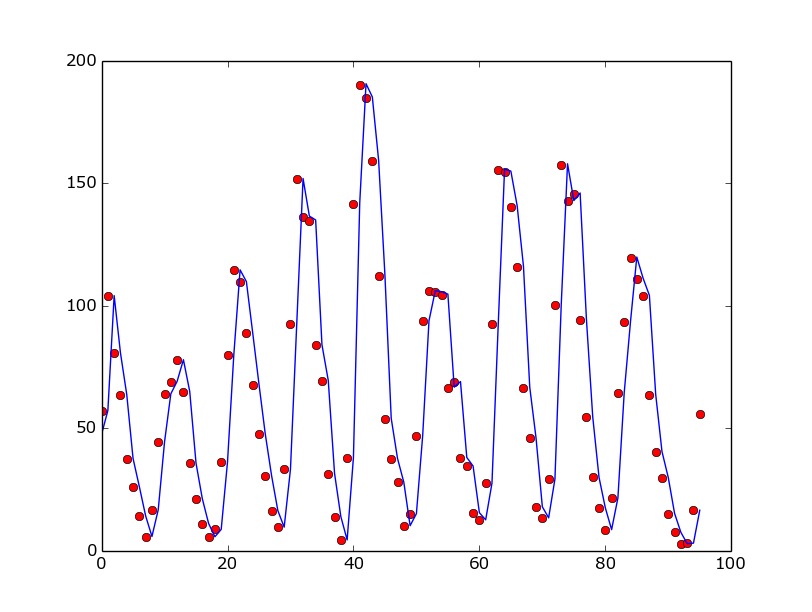
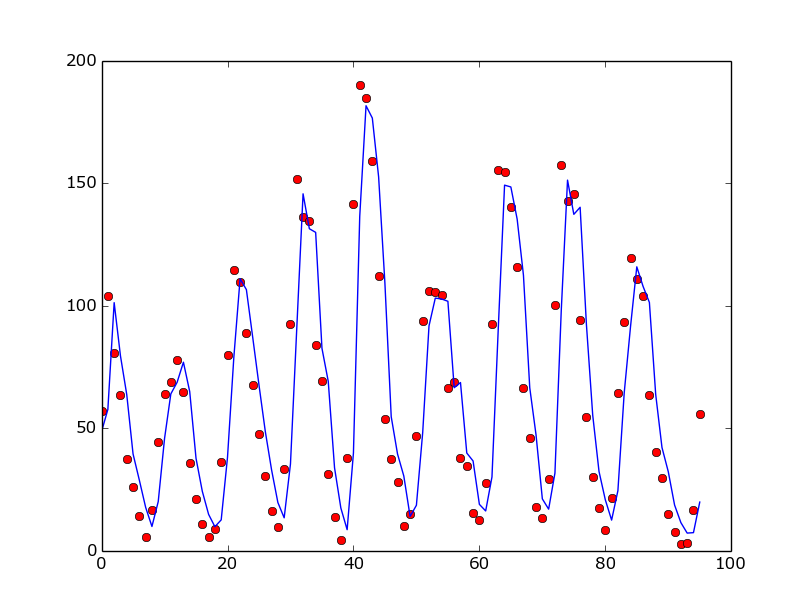
pictures and text for resubmitsion

diff --git a/Assign2/opgave.tex b/Assign2/opgave.tex
@@ -1,6 +1,6 @@
 \documentclass{article}
 
-\usepackage[margin=1.0in]{geometry}
+\usepackage[margin=2.5cm]{geometry}
 \usepackage{upgreek}
 \usepackage{amsmath}
 \usepackage{minted}
@@ -127,17 +127,21 @@ the previous years sunspot numbers. So even if it does have the lowest RMS, it i
 
 \begin{figure}[!ht]
     \centering
-    \begin{subfigure}[b]{0.4\textwidth}
+    \begin{subfigure}[b]{0.47\textwidth}
         \includegraphics[width=\textwidth]{Part2/II211.png}
-        \caption{fitting with $RMS = 64.4180$}
+        \caption{Fitting with $RMS = 43.9015607236$}
     \end{subfigure}
-    \begin{subfigure}[b]{0.4\textwidth}
+    \begin{subfigure}[b]{0.47\textwidth}
         \includegraphics[width=\textwidth]{Part2/II212.png}
-        \caption{fitting with $RMS = 30.1460$}
+        \caption{Fitting with $RMS = 29.2452004653$}
     \end{subfigure}
-    \begin{subfigure}[b]{0.4\textwidth}
+    \begin{subfigure}[b]{0.47\textwidth}
+        \includegraphics[width=\textwidth]{Part2/II212Scatter.png}
+        \caption{Selection 2 scatterplot of predicted vs actual values}
+    \end{subfigure}
+    \begin{subfigure}[b]{0.47\textwidth}
         \includegraphics[width=\textwidth]{Part2/II213.png}
-        \caption{fitting with $RMS = 49.8736$}
+        \caption{Fitting with $RMS = 18.7225909686$}
     \end{subfigure}
     \caption{Fittings using linear regression and ML}
     \label{fig:II21}
@@ -147,13 +151,18 @@ the previous years sunspot numbers. So even if it does have the lowest RMS, it i
 \subsection{II.2.2}
 
 On figure \ref{fig:II22} the plots of our MAP estimations are shown in relation
-to our ML solutions. In each picture, the blue line is the estimation of
+to our ML solutions. In each picture, the blue line is the estimation of    
 our Maximum likelihood solution and the red our MAP estimations given 
-different alpha values, plottet on the x-axis.\\
-According to our calculations, all the Selections has the best alpha values
-when $\alpha \rightarrow 0$, with the Selection 1 ML solution never crossing 
-our MAP solution. In Selection 2 and 3, the MAP values solutions is worse then the
-ML solutions at respectively $alpha \sim 10^{23}$ and $alpha \sim 10^{30}$
+different values, plottet on the x-axis.\\
+Please note that the alpha value is calculated by $\alpha = 10^{x} $ where x    
+is plotted on the x-axis of figure \ref{fig:II22}.\\
+It is easy to see, that in figure \ref{fig:II221} the ML solution is
+betther than the MAP solution, as the error value from MAP 
+never drops below our ML solutions rms.\\
+Our MAP estimations for Selection 2 and 3 are however better then our ML solutions with the 
+best values being at respectivly $x = 5.001$ with an rms of 28.6 and $x = 3.546$ with and rms of 18.57.\\
+This means our \textbf{best results are Selection 3 with the MAP estimation}.
+Selection 2 decents below the ML solutions at around $x \sim 3$. Selection 3 at $x \sim 2.8$
 
 % We used the following to calculate our maximum posterior weight vector.\\
 % \begin{align*}
@@ -168,33 +177,41 @@ ML solutions at respectively $alpha \sim 10^{23}$ and $alpha \sim 10^{30}$
     \begin{subfigure}[b]{0.4\textwidth}
         \includegraphics[width=\textwidth]{Part2/II221.png}
         \caption{Selection 1}
+        \label{fig:II221}
     \end{subfigure}
     \begin{subfigure}[b]{0.4\textwidth}
         \includegraphics[width=\textwidth]{Part2/II222.png}
         \caption{Selection 2}
+        \label{fig:II222}
     \end{subfigure}
     \begin{subfigure}[b]{0.4\textwidth}
         \includegraphics[width=\textwidth]{Part2/II223.png}
         \caption{Selection 3}
+        \label{fig:II223}
     \end{subfigure}
     \caption{MLS vs MAP}
     \label{fig:II22}
 \end{figure}
 
-% 1:
-% bestmN = [[-0.25975759], [ 0.99400395]]
-% bestrms = 33.6875907352
-% bestAlpha = 10
+% \begin{verbatim}
+% Selection 1:
+% bestmN = [[-0.25979644]
+          % [ 0.99404856]]
+% bestrms = 43.9015675468
+% bestAlpha = 1
 
-% 2:
-% bestmN = [[ 0.93127615]]
-% bestrms = 20.8018430001
-% bestAlpha = 10
+% bestmN = [[ 0.80531681]]
+% bestrms = 28.6056302671
+% bestAlpha = 100230.523808
 
-% 3:
-% bestmN = [[-0.02833114], [ 0.18767638], [ 0.03828809], [-0.57547992], [ 1.35501008]]
-% bestrms = 14.5218332936
-% bestAlpha = 10
+% bestmN = [[-0.02455309]
+          % [ 0.20662984]
+          % [-0.00638428]
+          % [-0.44285572]
+          % [ 1.2408648 ]]
+% bestrms = 18.5789196201
+% bestAlpha = 3515.60440528
+% \end{verbatim}
 
 \subsection{II.2.3}
 
@@ -302,8 +319,12 @@ And the inverse of $R$. This gives us the solution for $w$.
   w = R^{-1}(\Phi^T \Phi)^{-1} R \bar{t} \Phi 
 \end{equation*}
 
-SVAR PÅ DE TO SIDSTE SPØRGSMÅL!! ! ! ! ! ! ! ! ! ! ! ! ! ! !
-\JegOversaetterIkkeHAHAHAHAHAH!
+\subsubsection{II.2.3.I}
+
+\subsubsection{II.2.3.II}
+
+% SVAR PÅ DE TO SIDSTE SPØRGSMÅL!! ! ! ! ! ! ! ! ! ! ! ! ! ! !
+% \JegOversaetterIkkeHAHAHAHAHAH!
 
 
 \end{document}

diff --git a/Assign2/Part2/II2code.py b/Assign2/Part2/II2code.py
@@ -124,7 +124,7 @@ def MAP(trainset, testset, rmsold, wML):
 
     bestmN = 0
     bestrms = float("inf")
-    bestAlpha = 0
+    bestNum = 0
 
     for num in drange(0, 7.0, 0.001):
         alpha = pow(10, num)
@@ -138,13 +138,13 @@ def MAP(trainset, testset, rmsold, wML):
         if(rms < bestrms):
             bestrms = rms
             bestmN = mN
-            bestAlpha = alpha
+            bestNum = num
         plotVals = np.append(plotVals, rms)
         plotAlphas = np.append(plotAlphas, num)
 
     print "bestmN = " + str(bestmN)
     print "bestrms = " + str(bestrms)
-    print "bestAlpha = " + str(bestAlpha)
+    print "bestAlpha = " + str(bestNum)
 
     plt.plot(plotAlphas, np.repeat(rmsold,len(plotVals)), "b-", label = "Using MLS")
     plt.plot(plotAlphas, plotVals, "r-", label = "Using MAP")
@@ -166,35 +166,35 @@ wML3 = sum(np.linalg.pinv(np.array(train3)) * ttrain)
 
 
 # Plotting
-predicted = maxLikelyhood(test1, wML1)
+# predicted = maxLikelyhood(test1, wML1)
 # plt.plot(actual, "ro", label = "data")
 # plt.plot(predicted, "b-", label = "fit")
-rms1 = math.sqrt(skm.mean_squared_error(actual, predicted))
+# rms1 = math.sqrt(skm.mean_squared_error(actual, predicted))
 # print "Selection 1 rms = " + str(rms1)
 # plt.show()
 
 predicted = maxLikelyhood(test2, wML2)
-# plt.plot(ttest, "ro", label = "data")
-# plt.plot(predicted, "b-", label = "fit")
+plt.plot(ttest, "ro", label = "data")
+plt.plot(predicted, "b-", label = "fit")
 rms2 = math.sqrt(skm.mean_squared_error(actual, predicted))
-# print "Selection 2 rms = " + str(rms2)
-# plt.show()
+print "Selection 2 rms = " + str(rms2)
+plt.show()
 
 
-# plt.plot(train2, ttrain.T, "bo")
-# plt.plot(predicted, ttest, "ro")
-# # plt.plot([0,200], [0,200])
-# plt.show()
+plt.plot(train2, ttrain.T, "bo")
+plt.plot(predicted, ttest, "ro")
+# plt.plot([0,200], [0,200])
+plt.show()
 
-predicted = maxLikelyhood(test3, wML3)
+# predicted = maxLikelyhood(test3, wML3)
 # plt.plot(ttest, "ro", label = "data")
 # plt.plot(predicted, "b-", label = "fit")
-rms3 = math.sqrt(skm.mean_squared_error(actual, predicted))
+# rms3 = math.sqrt(skm.mean_squared_error(actual, predicted))
 # print "Selection 3 rms = " + str(rms3)
 # plt.show()
 
-MAP(train1, test1, rms1, wML1)
-MAP(train2, test2, rms2, wML2)
-MAP(train3, test3, rms3, wML3)
+# MAP(train1, test1, rms1, wML1)
+# MAP(train2, test2, rms2, wML2)
+# MAP(train3, test3, rms3, wML3)
 
 
